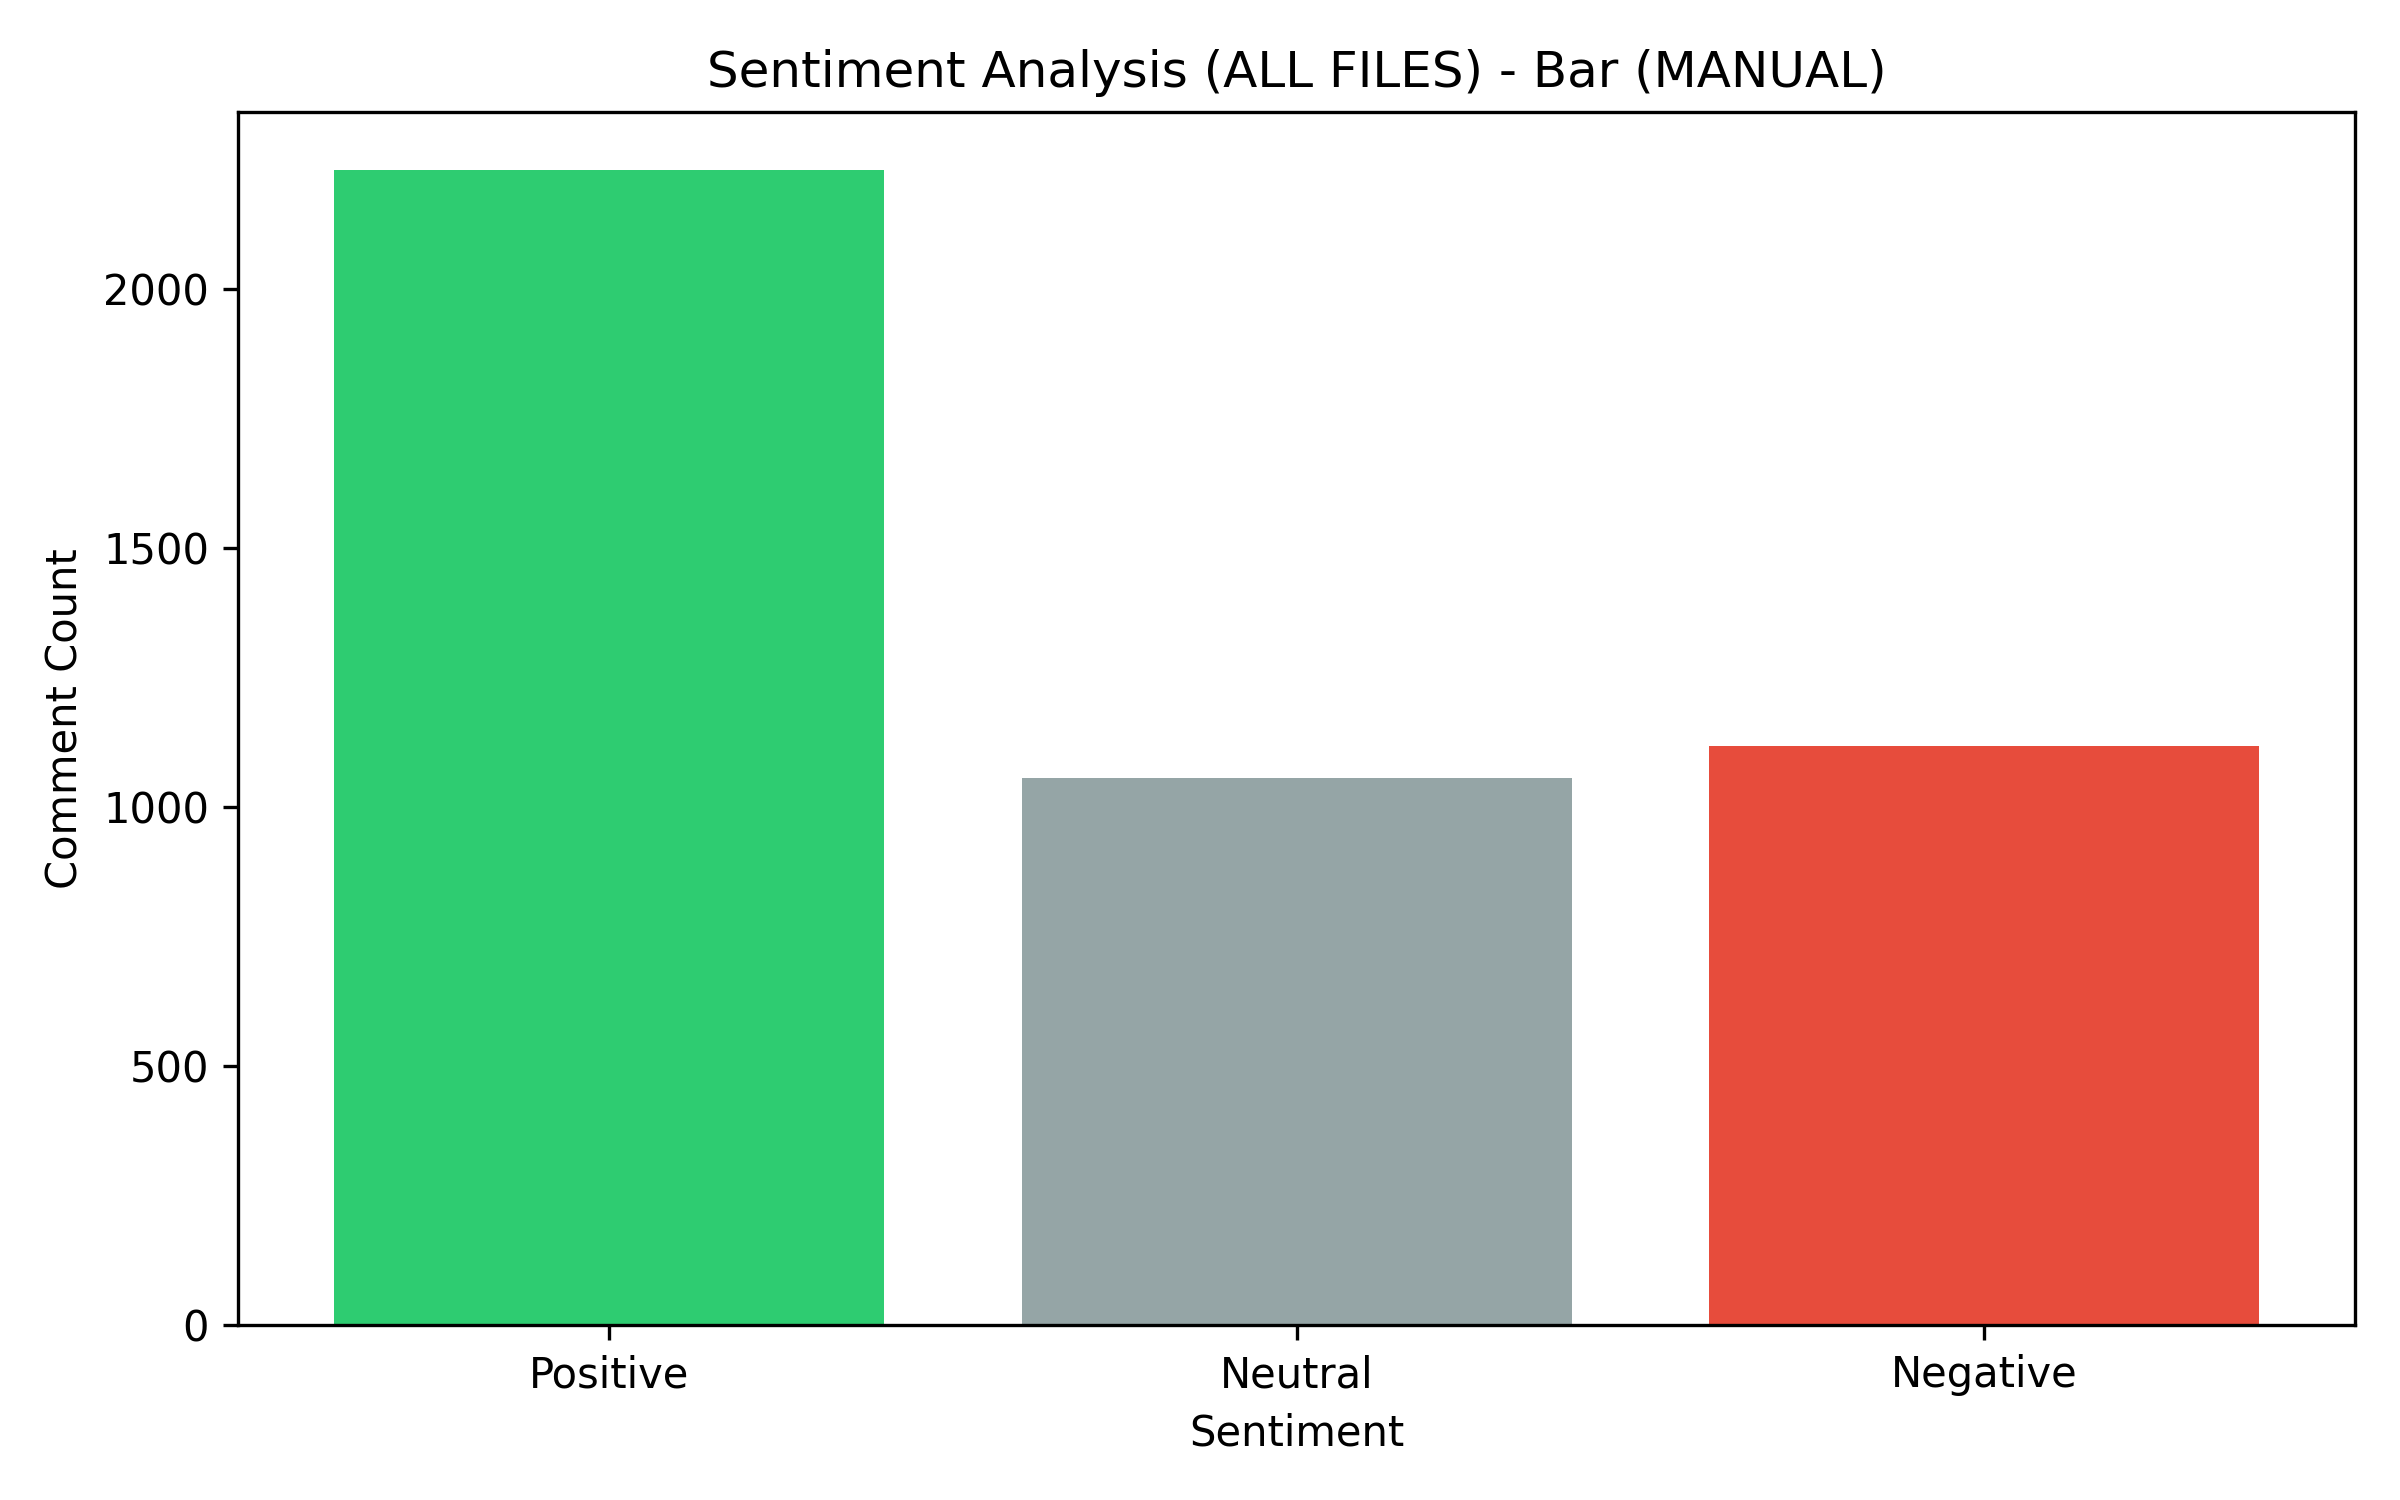
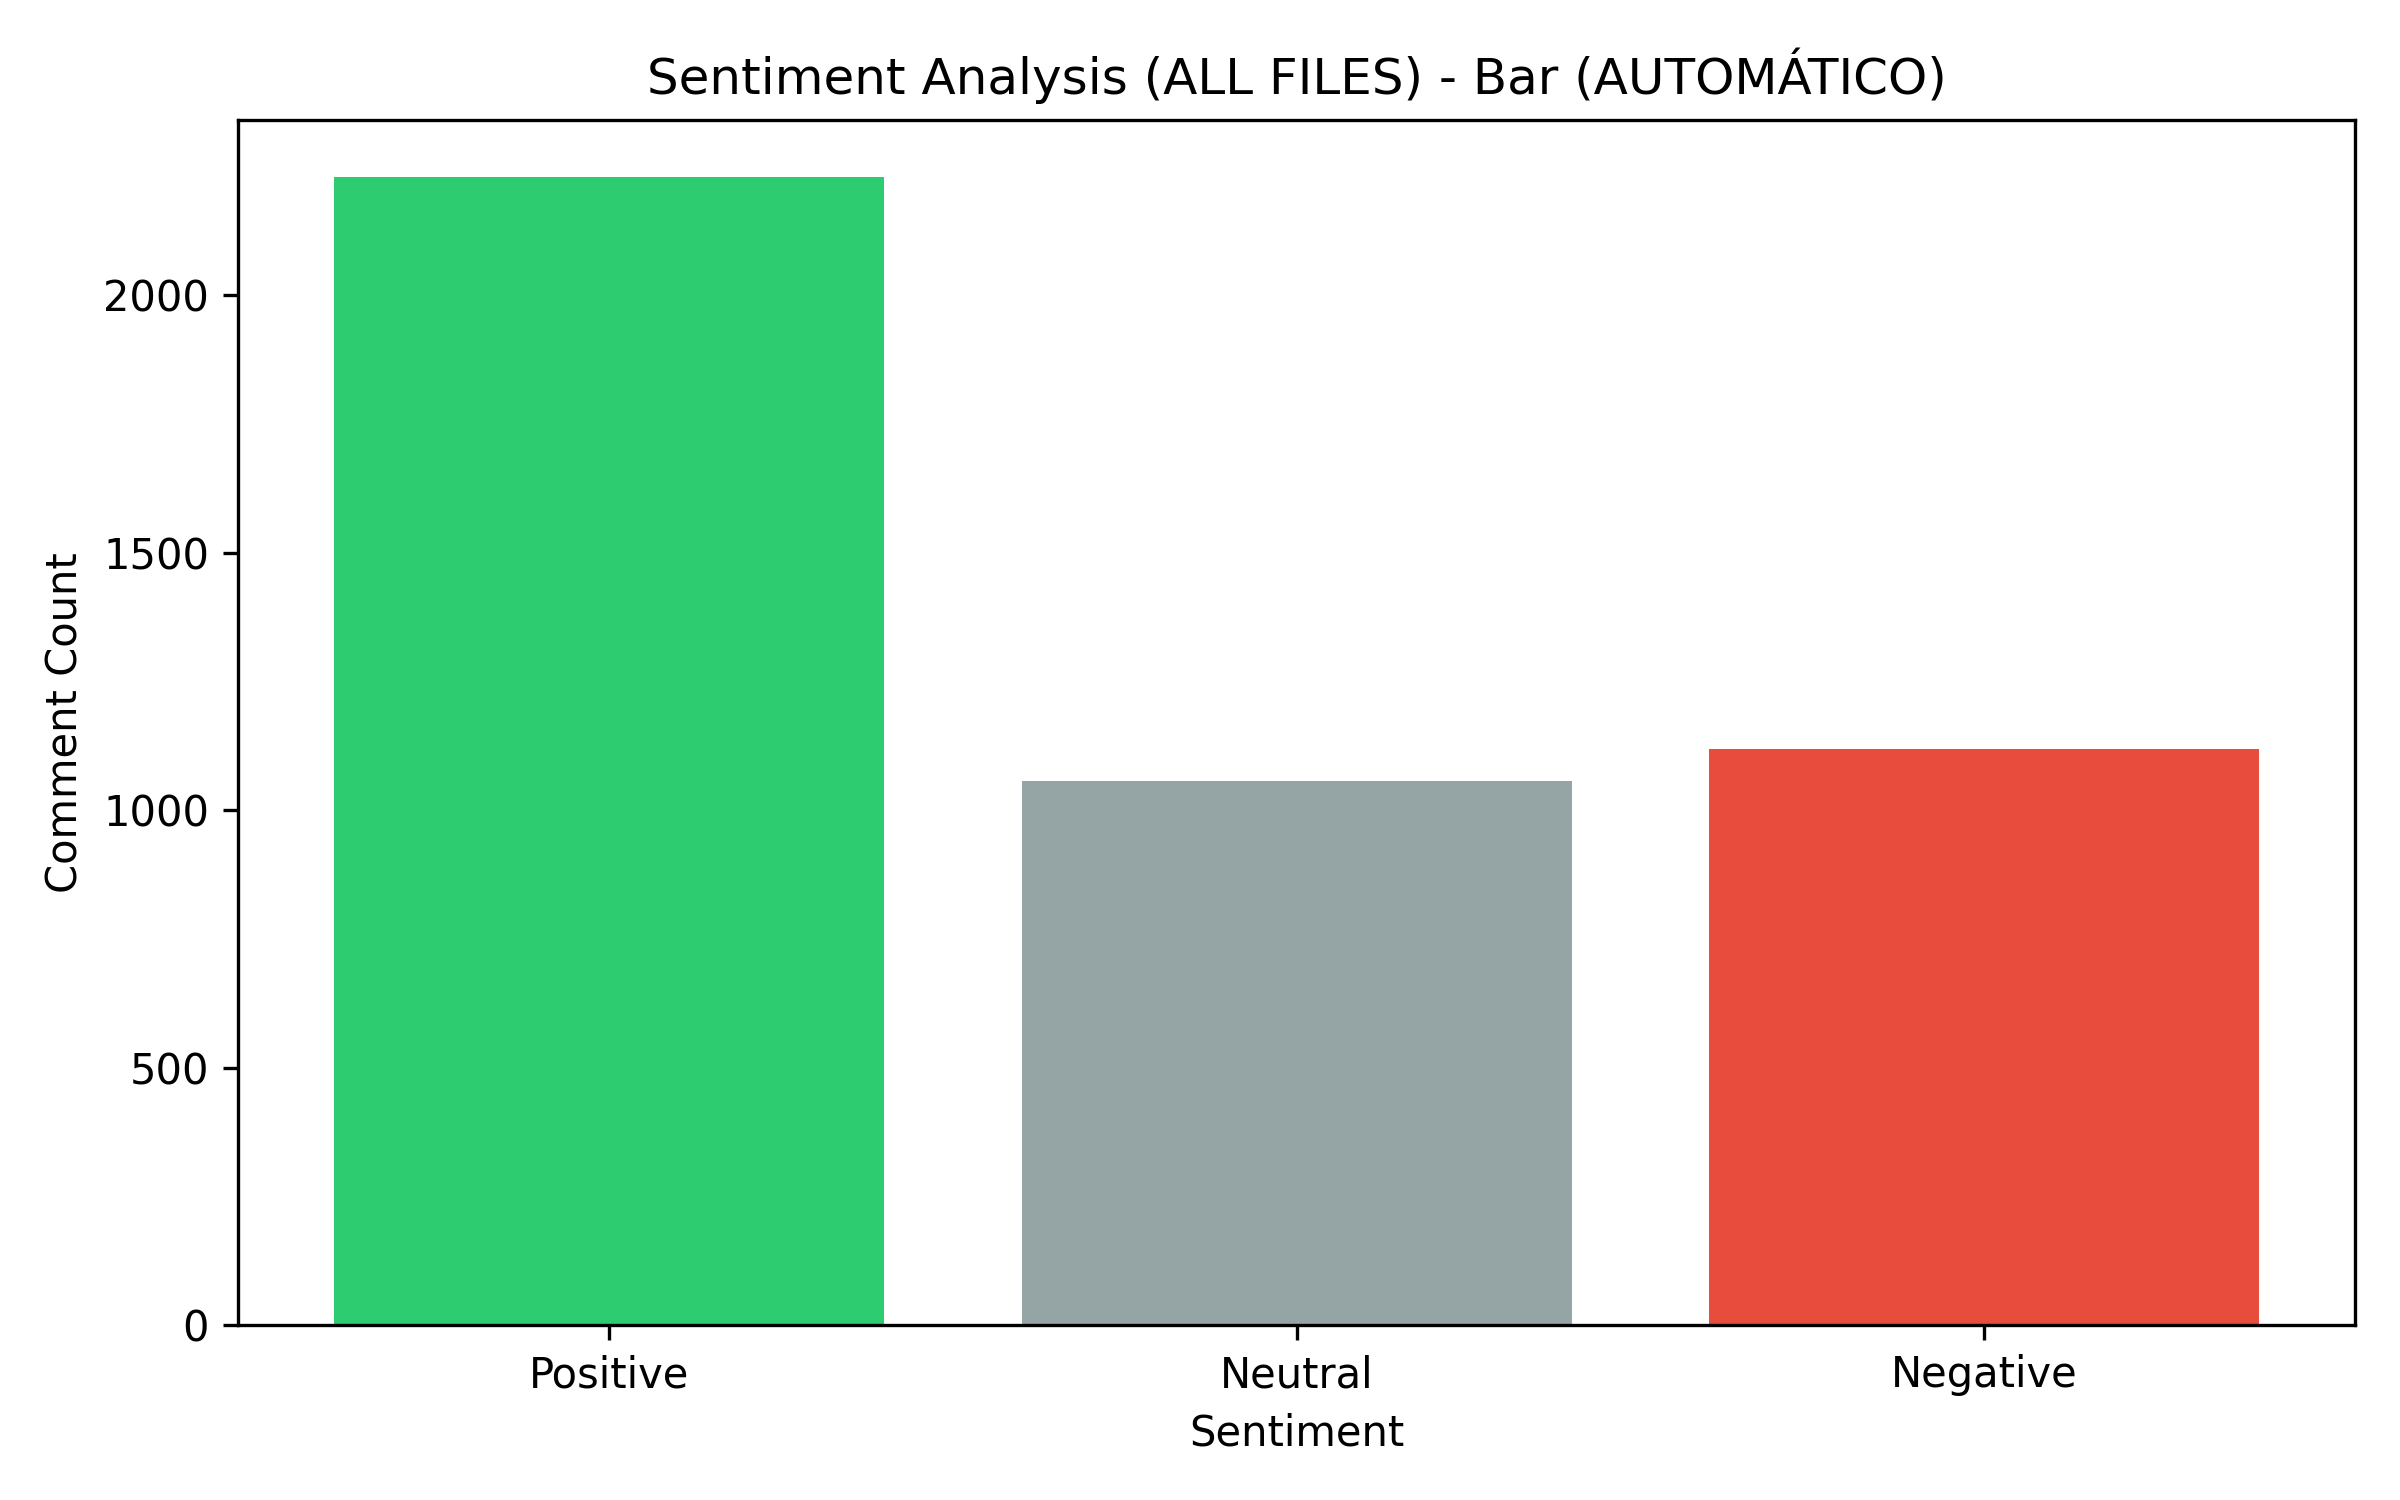
csvs e graficos feitos

diff --git a/LLM_FEW_SHOT/GRAFICOS.PY b/LLM_FEW_SHOT/GRAFICOS.PY
@@ -4,28 +4,15 @@ import glob
 import pandas as pd
 import matplotlib.pyplot as plt
 
-# =========================
-# CONFIGURAÇÕES
-# =========================
-# Ajuste para a sua pasta com CSVs:
 INPUT_FOLDER  = r"C:\Users\daniel\Desktop\LLM_MANUAL\LLM_FEW_SHOT\ANALISE_MANUAL_LLM_EW_SHOTS"
 OUTPUT_FOLDER = r"C:\Users\daniel\Desktop\LLM_MANUAL\LLM_FEW_SHOT\GRAFICOS"
 os.makedirs(OUTPUT_FOLDER, exist_ok=True)
 
 summary_csv = os.path.join(OUTPUT_FOLDER, "resumo_agregado.csv")
 
-# =========================
-# FUNÇÕES
-# =========================
 def normalize_label(value):
-    """Normaliza valores para {Positive, Neutral, Negative}.
-       Aceita strings (case-insensitive) e numéricos (1,0,-1).
-       'Mixed' vira 'Neutral'.
-    """
     if pd.isna(value):
         return None
-
-    # tenta numérico
     try:
         v = float(str(value).strip().replace(",", "."))
         if v > 0:  return "Positive"
@@ -33,7 +20,6 @@ def normalize_label(value):
         return "Neutral"
     except Exception:
         pass
-
     s = str(value).strip().lower()
     mapping = {
         "positive": "Positive", "pos": "Positive", "1": "Positive",
@@ -44,7 +30,6 @@ def normalize_label(value):
     return mapping.get(s, None)
 
 def count_sentiments(series: pd.Series) -> dict:
-    """Conta Positive/Neutral/Negative na série."""
     normalized = series.map(normalize_label).dropna()
     counts = normalized.value_counts().to_dict()
     for k in ["Positive", "Neutral", "Negative"]:
@@ -52,45 +37,31 @@ def count_sentiments(series: pd.Series) -> dict:
     return counts
 
 def detect_classificacao_column(df: pd.DataFrame) -> str | None:
-    """Retorna somente a coluna 'classificacao'.
-       Fallback: primeira coluna que contenha 'classific' no nome.
-       Nunca retorna colunas com 'sentim' ou 'manual'.
-    """
     lower_cols = {c.lower(): c for c in df.columns}
     if "classificacao" in lower_cols:
         return lower_cols["classificacao"]
-
-    # fallback por substring
     for c in df.columns:
         cl = str(c).lower()
         if ("classific" in cl) and ("sentim" not in cl) and ("manual" not in cl):
             return c
     return None
 
-# =========================
-# PIPELINE
-# =========================
 csv_files = sorted(glob.glob(os.path.join(INPUT_FOLDER, "**", "*.csv"), recursive=True))
 if not csv_files:
     raise SystemExit(f"Nenhum CSV encontrado em: {INPUT_FOLDER}")
 
 per_file_rows = []
 for csv_path in csv_files:
-    # leitura robusta
     try:
         df = pd.read_csv(csv_path, encoding="utf-8", sep=None, engine="python")
     except Exception:
         df = pd.read_csv(csv_path, encoding="latin-1", sep=None, engine="python")
-
     col = detect_classificacao_column(df)
     if col is None:
-        print(f"Aviso: coluna 'classificacao' não encontrada em {csv_path}. Pulando.")
         continue
-
     counts = count_sentiments(df[col])
     total = sum(counts.values())
     pos, neu, neg = counts["Positive"], counts["Neutral"], counts["Negative"]
-
     per_file_rows.append({
         "arquivo": os.path.basename(csv_path),
         "Positive": pos,
@@ -105,11 +76,9 @@ for csv_path in csv_files:
 if not per_file_rows:
     raise SystemExit("Nenhum arquivo válido processado (sem coluna 'classificacao').")
 
-# DataFrame agregado e CSV
 agg_df = pd.DataFrame(per_file_rows).sort_values("arquivo").reset_index(drop=True)
 agg_df.to_csv(summary_csv, index=False, encoding="utf-8-sig")
 
-# Soma global e gráficos (sem especificar cores)
 sum_pos = int(agg_df["Positive"].sum())
 sum_neu = int(agg_df["Neutral"].sum())
 sum_neg = int(agg_df["Negative"].sum())
@@ -117,28 +86,25 @@ sum_neg = int(agg_df["Negative"].sum())
 labels = ["Positive", "Neutral", "Negative"]
 counts = [sum_pos, sum_neu, sum_neg]
 
-# Bar chart (cores melhores)
 plt.figure(figsize=(8, 5))
-plt.bar(labels, counts, color=['#2ecc71', '#95a5a6', '#e74c3c'])  # verde, cinza, vermelho
+plt.bar(labels, counts, color=['#2ecc71', '#95a5a6', '#e74c3c'])
 plt.xlabel("Sentiment")
 plt.ylabel("Comment Count")
-plt.title("Sentiment Analysis (ALL FILES) - Bar (MANUAL)")
+plt.title("Sentiment Analysis (ALL FILES) - Bar (AUTOMÁTICO)")
 bar_path = os.path.join(OUTPUT_FOLDER, "sentiment_bar_all.png")
 plt.tight_layout()
 plt.savefig(bar_path, dpi=300)
 plt.close()
 
-# Pie chart (cores melhores)
 plt.figure(figsize=(6, 6))
 plt.pie(counts, labels=labels, autopct="%1.1f%%",
         colors=['#2ecc71', '#95a5a6', '#e74c3c'])
-plt.title("Sentiment Analysis (ALL FILES) - Pie (MANUAL)")
+plt.title("Sentiment Analysis (ALL FILES) - Bar (AUTOMÁTICO)")
 pie_path = os.path.join(OUTPUT_FOLDER, "sentiment_pie_all.png")
 plt.tight_layout()
 plt.savefig(pie_path, dpi=300)
 plt.close()
 
-# Resumo agregado no console
 total_all = sum(counts) if sum(counts) else 1
 agg_summary = pd.DataFrame({
     "Sentiment": labels,

diff --git a/LLM_FEW_SHOT/GRAFICOS_MANUAL.PY b/LLM_FEW_SHOT/GRAFICOS_MANUAL.PY
@@ -4,24 +4,14 @@ import glob
 import pandas as pd
 import matplotlib.pyplot as plt
 
-# =========================
-# CONFIGURAÇÕES
-# =========================
 INPUT_FOLDER  = r"C:\Users\daniel\Desktop\LLM_MANUAL\LLM_FEW_SHOT\ANALISE_MANUAL_LLM_EW_SHOTS"
 OUTPUT_FOLDER = r"C:\Users\daniel\Desktop\LLM_MANUAL\LLM_FEW_SHOT\GRAFICOS_MANUAL"
 os.makedirs(OUTPUT_FOLDER, exist_ok=True)
 
 summary_csv = os.path.join(OUTPUT_FOLDER, "resumo_agregado.csv")
 
-# =========================
-# FUNÇÕES
-# =========================
 def should_skip_file(path: str) -> bool:
-    """
-    Pule arquivos de RESUMO/AGREGADOS pelo nome.
-    """
     name = os.path.basename(path).lower()
-    # pula qualquer coisa com 'resumo' no nome ou o próprio arquivo agregado que vamos gerar
     return (
         "resumo" in name
         or "aggregate" in name
@@ -30,16 +20,8 @@ def should_skip_file(path: str) -> bool:
     )
 
 def normalize_label(value):
-    """
-    Normaliza valores para {Positive, Neutral, Negative}.
-    Aceita strings (case-insensitive) e NÚMEROS SOMENTE em {-1, 0, 1}.
-    'Mixed' vira 'Neutral'.
-    Outros números (ex.: 3, 100, 0.25) são ignorados (retorna None).
-    """
     if pd.isna(value):
         return None
-
-    # tenta como número, aceitando apenas -1, 0, 1
     try:
         v = float(str(value).strip().replace(",", "."))
         if v in (-1.0, 0.0, 1.0):
@@ -49,7 +31,6 @@ def normalize_label(value):
         return None
     except Exception:
         pass
-
     s = str(value).strip().lower()
     mapping = {
         "positive": "Positive", "pos": "Positive", "1": "Positive",
@@ -60,9 +41,6 @@ def normalize_label(value):
     return mapping.get(s, None)
 
 def count_sentiments(series: pd.Series) -> dict:
-    """
-    Conta Positive/Neutral/Negative na série, após normalização.
-    """
     normalized = series.map(normalize_label).dropna()
     counts = normalized.value_counts().to_dict()
     for k in ["Positive", "Neutral", "Negative"]:
@@ -70,23 +48,13 @@ def count_sentiments(series: pd.Series) -> dict:
     return counts
 
 def detect_manual_column(df: pd.DataFrame) -> str | None:
-    """
-    Retorna SOMENTE coluna de classificação MANUAL (forma estrita).
-    Aceita apenas nomes exatos comuns: 'sentimento_manual' ou 'classificacao_manual'.
-    Não aceita qualquer coluna que contenha 'manual' para evitar pegar percentuais de resumo.
-    """
     lower_cols = {c.lower(): c for c in df.columns}
     for exact in ["sentimento_manual", "classificacao_manual"]:
         if exact in lower_cols:
             return lower_cols[exact]
     return None
 
-# =========================
-# PIPELINE
-# =========================
-# lista todos os CSVs
 all_csvs = sorted(glob.glob(os.path.join(INPUT_FOLDER, "**", "*.csv"), recursive=True))
-# pula os 'resumo'
 csv_files = [p for p in all_csvs if not should_skip_file(p)]
 
 if not csv_files:
@@ -94,7 +62,6 @@ if not csv_files:
 
 per_file_rows = []
 for csv_path in csv_files:
-    # leitura robusta
     try:
         df = pd.read_csv(csv_path, encoding="utf-8", sep=None, engine="python")
     except Exception:
@@ -123,11 +90,9 @@ for csv_path in csv_files:
 if not per_file_rows:
     raise SystemExit("Nenhum arquivo válido processado (sem coluna manual válida).")
 
-# Agregado e CSV
 agg_df = pd.DataFrame(per_file_rows).sort_values("arquivo").reset_index(drop=True)
 agg_df.to_csv(summary_csv, index=False, encoding="utf-8-sig")
 
-# Soma global e gráficos (sem cores específicas)
 sum_pos = int(agg_df["Positive"].sum())
 sum_neu = int(agg_df["Neutral"].sum())
 sum_neg = int(agg_df["Negative"].sum())
@@ -135,9 +100,8 @@ sum_neg = int(agg_df["Negative"].sum())
 labels = ["Positive", "Neutral", "Negative"]
 counts = [sum_pos, sum_neu, sum_neg]
 
-# Bar chart (cores melhores)
 plt.figure(figsize=(8, 5))
-plt.bar(labels, counts, color=['#2ecc71', '#95a5a6', '#e74c3c'])  # verde, cinza, vermelho
+plt.bar(labels, counts, color=['#2ecc71', '#95a5a6', '#e74c3c'])
 plt.xlabel("Sentiment")
 plt.ylabel("Comment Count")
 plt.title("Sentiment Analysis (ALL FILES) - Bar (MANUAL)")
@@ -146,7 +110,6 @@ plt.tight_layout()
 plt.savefig(bar_path, dpi=300)
 plt.close()
 
-# Pie chart (cores melhores)
 plt.figure(figsize=(6, 6))
 plt.pie(counts, labels=labels, autopct="%1.1f%%",
         colors=['#2ecc71', '#95a5a6', '#e74c3c'])
@@ -156,7 +119,6 @@ plt.tight_layout()
 plt.savefig(pie_path, dpi=300)
 plt.close()
 
-# Resumo agregado no console
 total_all = sum(counts) if sum(counts) else 1
 agg_summary = pd.DataFrame({
     "Sentiment": labels,
